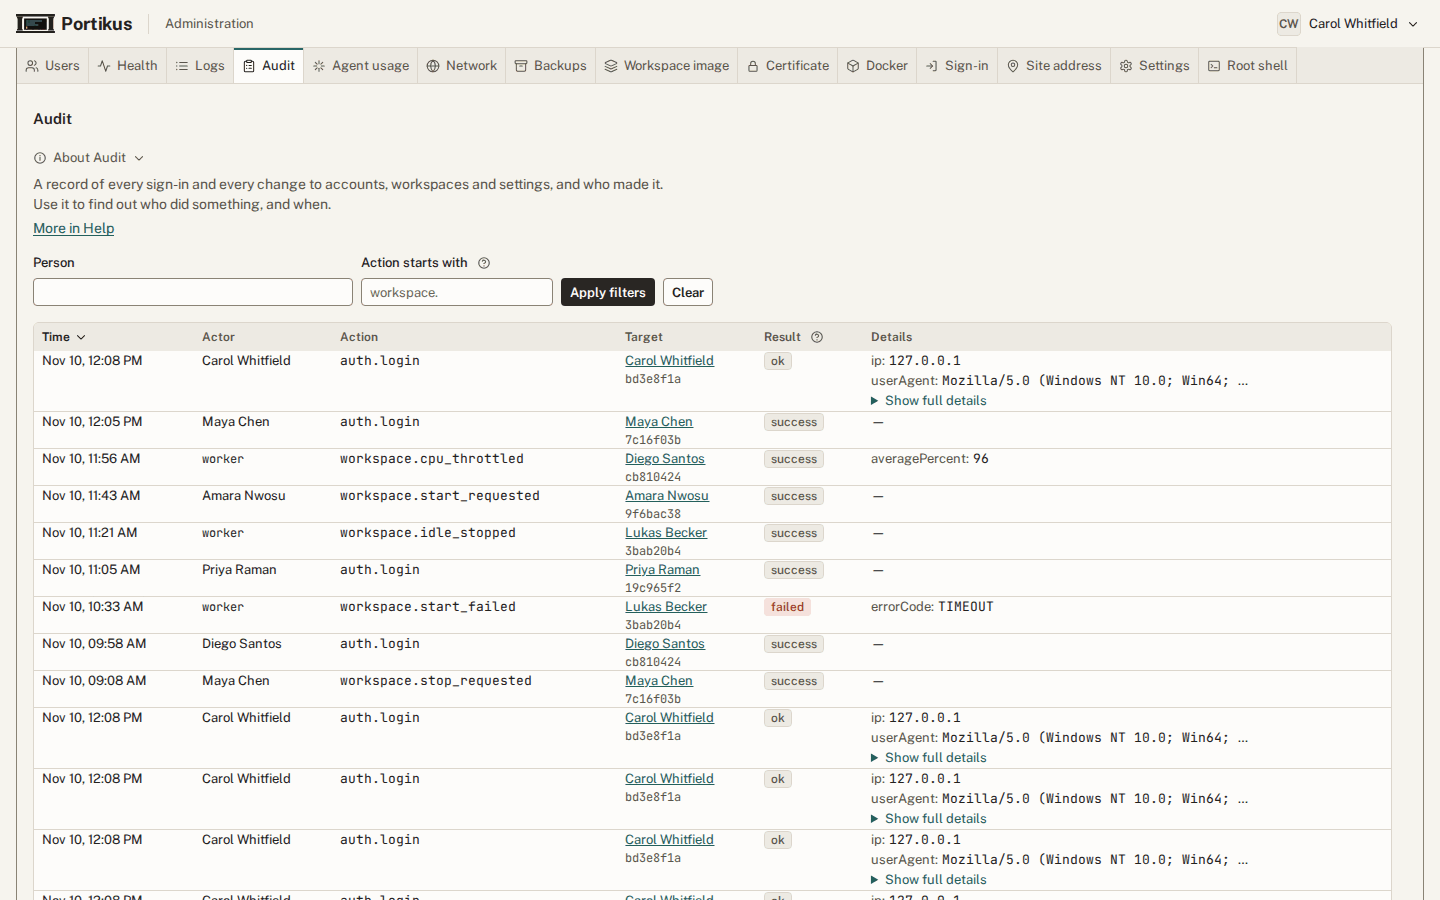
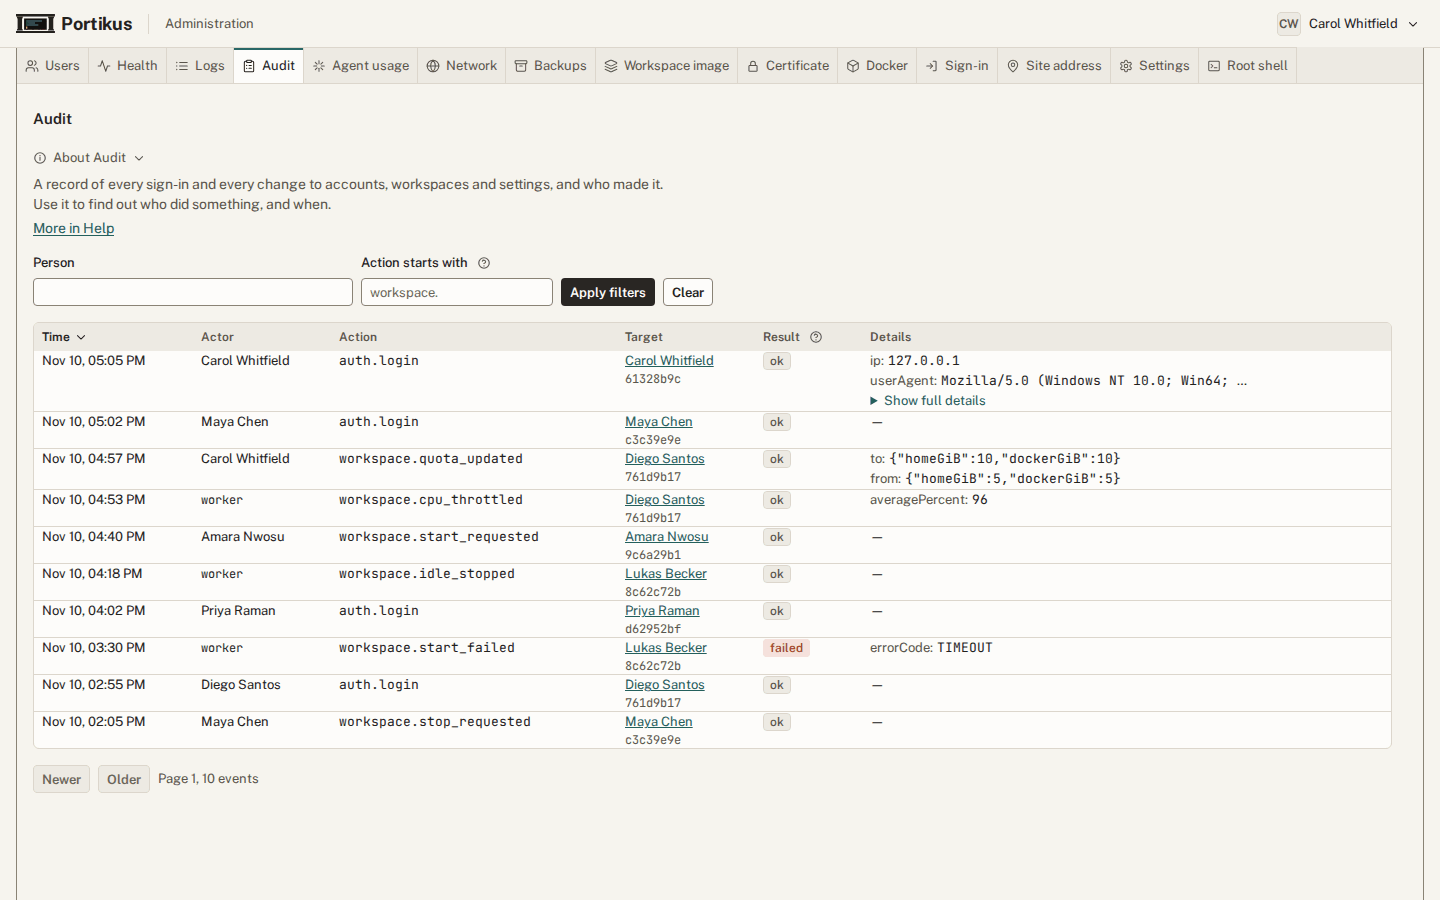
Capture tooling review fixes: audit image, ImageMagick 7, pinned PostgreSQL image, docs (#1882)

diff --git a/e2e/doc-images/admin.capture.ts b/e2e/doc-images/admin.capture.ts
@@ -177,18 +177,18 @@ test("audit", async ({ page }) => {
 		Person,
 	];
 	const rows: [string, string, string, string, object, number][] = [
-		[maya.userId, maya.workspaceId, "auth.login", "success", {}, 3],
+		[maya.userId, maya.workspaceId, "auth.login", "ok", {}, 3],
 		[
 			"worker",
 			diego.workspaceId,
 			"workspace.cpu_throttled",
-			"success",
+			"ok",
 			{ averagePercent: 96 },
 			12,
 		],
-		[amara.userId, amara.workspaceId, "workspace.start_requested", "success", {}, 25],
-		["worker", lukas.workspaceId, "workspace.idle_stopped", "success", {}, 47],
-		[priya.userId, priya.workspaceId, "auth.login", "success", {}, 63],
+		[amara.userId, amara.workspaceId, "workspace.start_requested", "ok", {}, 25],
+		["worker", lukas.workspaceId, "workspace.idle_stopped", "ok", {}, 47],
+		[priya.userId, priya.workspaceId, "auth.login", "ok", {}, 63],
 		[
 			"worker",
 			lukas.workspaceId,
@@ -197,9 +197,24 @@ test("audit", async ({ page }) => {
 			{ errorCode: "TIMEOUT" },
 			95,
 		],
-		[diego.userId, diego.workspaceId, "auth.login", "success", {}, 130],
-		[maya.userId, maya.workspaceId, "workspace.stop_requested", "success", {}, 180],
+		[diego.userId, diego.workspaceId, "auth.login", "ok", {}, 130],
+		[maya.userId, maya.workspaceId, "workspace.stop_requested", "ok", {}, 180],
 	];
+	// The list is newest first by row number, so start from an empty table:
+	// the seeded rows are then in time order, and the sign-in that opens the
+	// page is the newest row at the top.
+	await query("delete from audit_events");
+	const [carol] = await query<{ id: string }>(
+		"select id from users where email = 'carol@example.edu'",
+	);
+	rows.push([
+		carol?.id ?? "",
+		diego.workspaceId,
+		"workspace.quota_updated",
+		"ok",
+		{ from: { homeGiB: 5, dockerGiB: 5 }, to: { homeGiB: 10, dockerGiB: 10 } },
+		8,
+	]);
 	rows.sort((a, b) => b[5] - a[5]);
 	for (const [who, target, action, result, metadata, minutes] of rows) {
 		const actor = who === "worker" ? who : `user:${who}`;

diff --git a/e2e/doc-images/seed.ts b/e2e/doc-images/seed.ts
@@ -53,7 +53,12 @@ export async function shoot(
 		clip: options.clip,
 		style: options.keepToasts ? undefined : ".pk-toast { visibility: hidden; }",
 	});
-	execFileSync("convert", [raw, "-colors", "256", `PNG8:${join(IMAGES, name)}`]);
+	execFileSync(process.env.IMAGEMAGICK ?? "convert", [
+		raw,
+		"-colors",
+		"256",
+		`PNG8:${join(IMAGES, name)}`,
+	]);
 }
 
 async function post(path: string, body: unknown): Promise<void> {

diff --git a/docs/WORKFLOW.md b/docs/WORKFLOW.md
@@ -139,6 +139,19 @@ Environment variables are validated by `loadConfig` in `packages/config`. A
 missing or invalid variable fails at startup with a message naming it, so
 add new variables to that schema and to `.env.example` together.
 
+### Documentation images
+
+`make screenshots` rewrites the PNG files in `docs/images`. It builds the
+code, starts the end-to-end stack with invented demo data on a throwaway
+database, and takes each picture with Playwright. It needs Docker for the
+throwaway PostgreSQL container (or `TEST_DATABASE_URL` pointing at a database
+you do not mind losing) and ImageMagick, which shrinks each picture.
+
+It never runs in CI. Every picture is scripted: the chat and terminal scenes
+play fixed messages through a fake agent, so no real agent session is used and
+no real student data appears. After a run, look at each changed image before
+you commit it, and commit only the images you meant to change.
+
 ### Infrastructure smoke test
 
 `make smoke-test` runs `infra/tests/smoke-test.sh` against the platform VM
